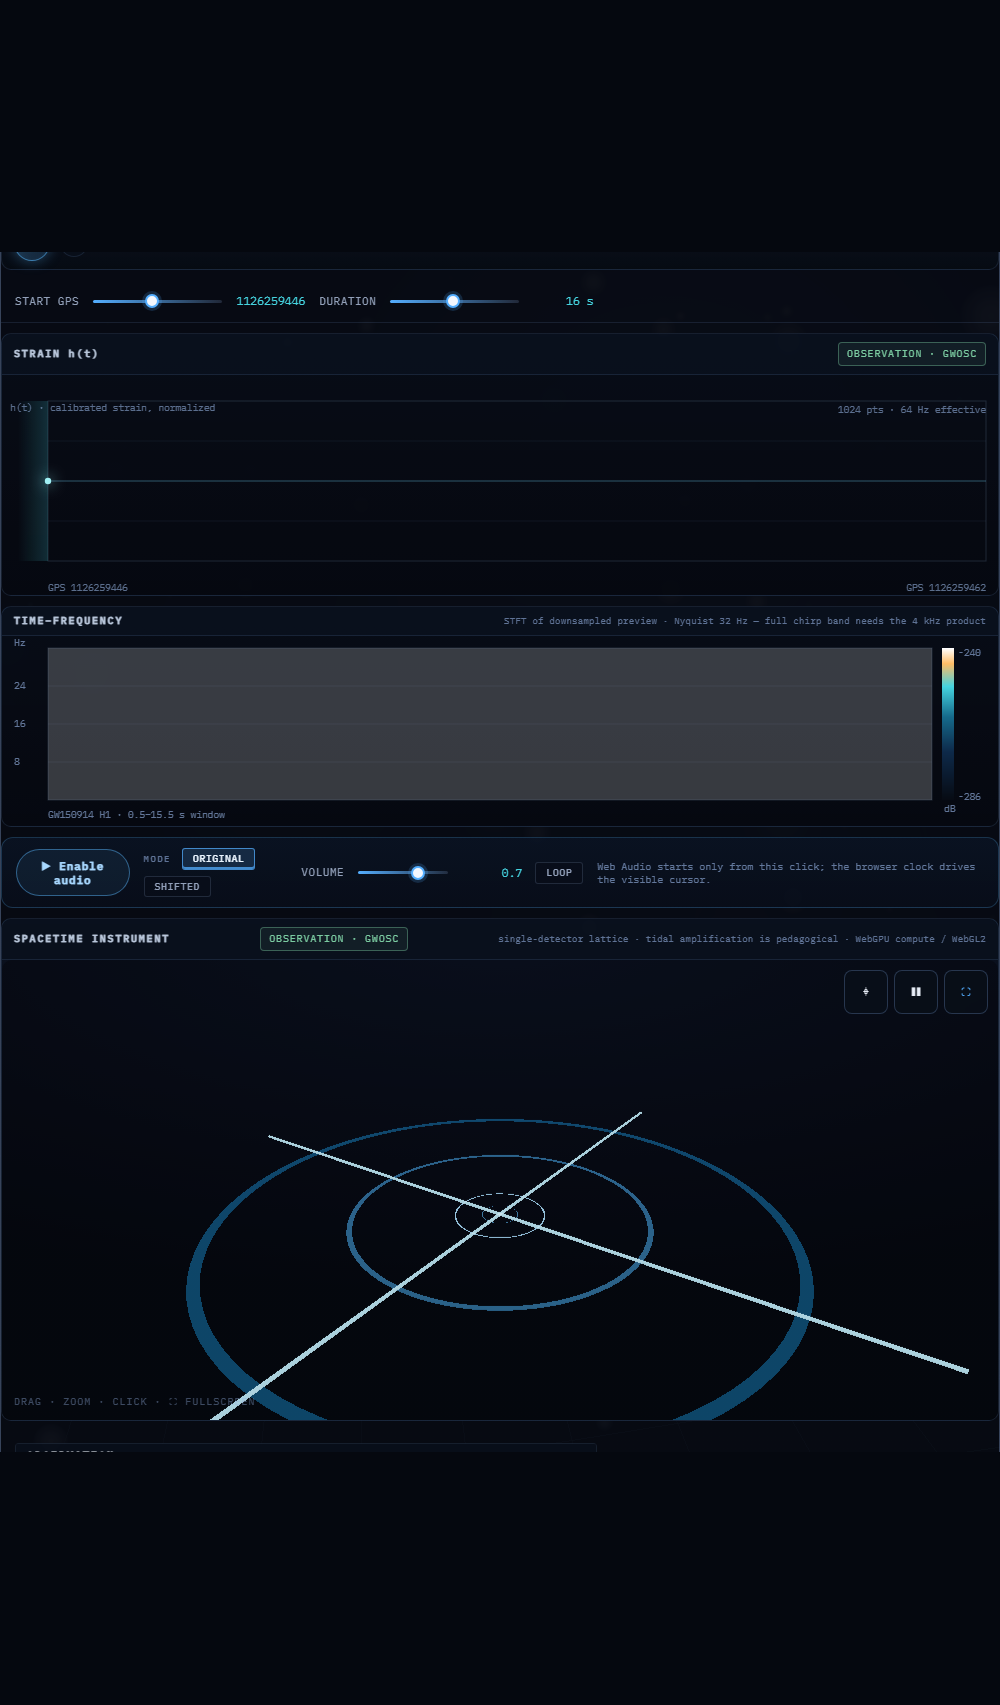
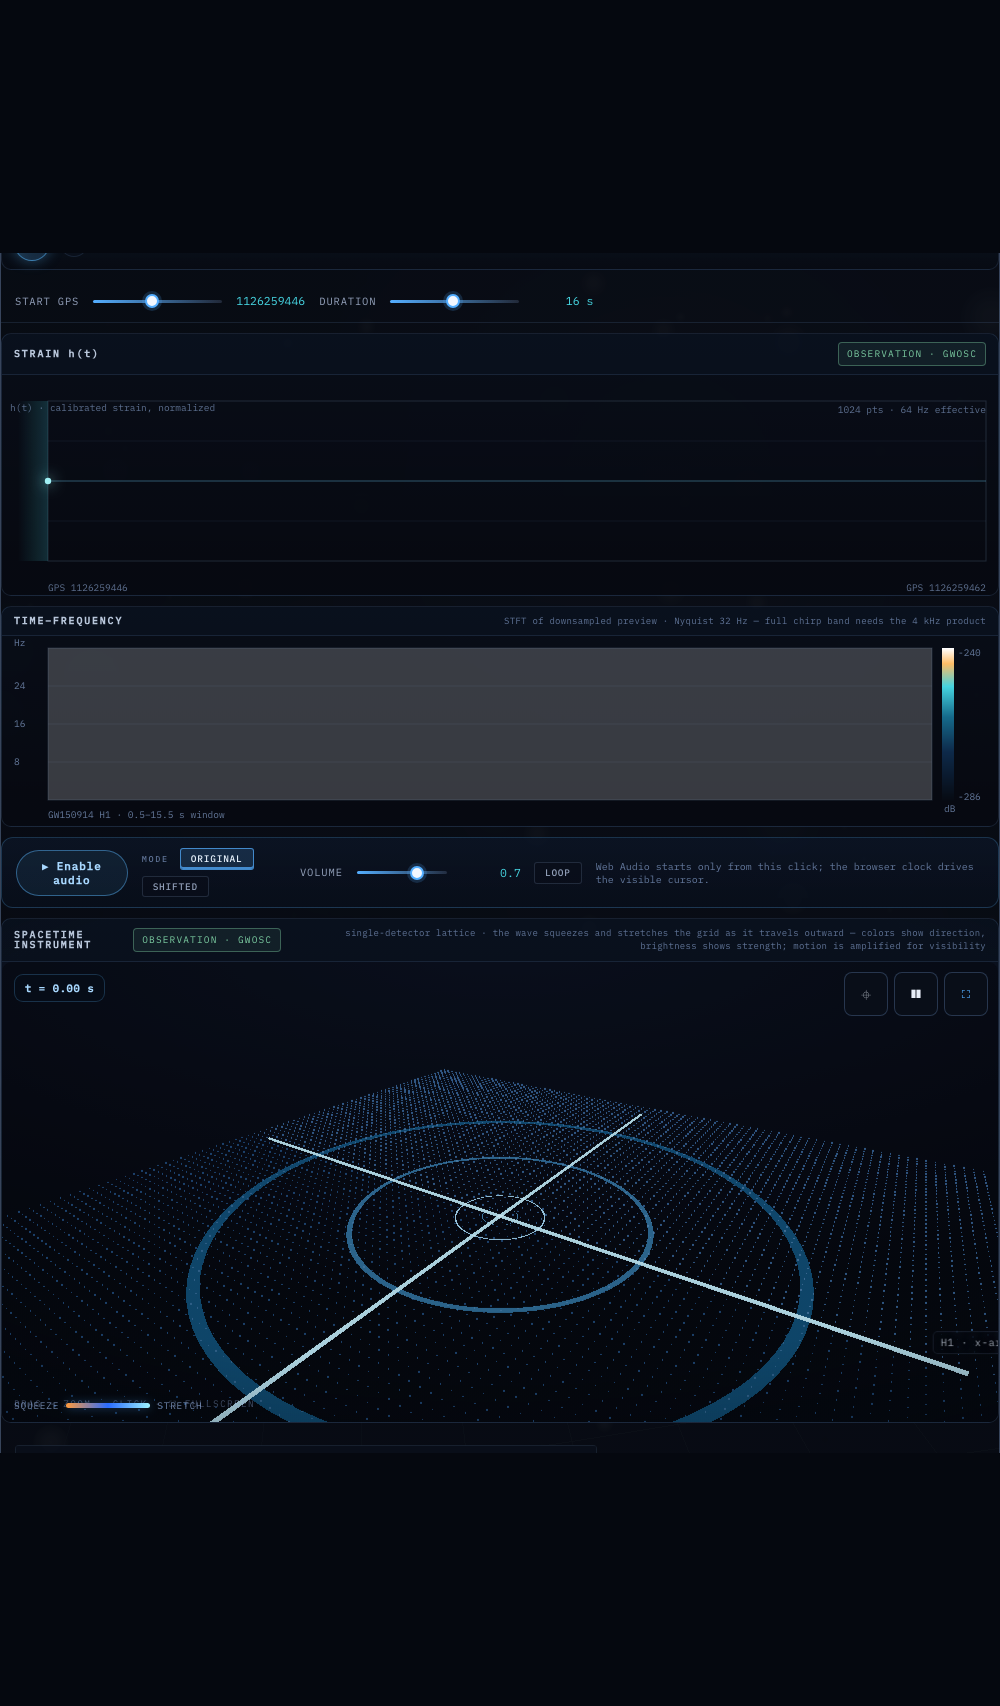
feat(gw): premium spacetime instrument — signed-strain color, merger shell, HUD, arm labels
Makes the instrument self-explanatory and cinematic, in both backends:

- Signed radial strain tint: squeeze renders amber, stretch renders cyan,
  neutral stays blue (normalized by the local envelope), so the quadrupolar
  pattern reads at a glance instead of a uniform glow.
- Merger shell: nodes whose delayed time crosses coalescence flash white and
  the flash travels outward with the visualization's wave speed (generated
  mode only; real GWOSC windows have no known merger time).
- Rest-position ghost lattice: a static dim reference grid so the deformation
  reads as motion relative to 'no wave'.
- HUD: live t-readout with inspiral/merger/ringdown phase pill (pulsing at
  merger), squeeze-stretch color legend, cinematic vignette.
- Detector-arm labels (H1/L1 x-arm, y-arm) anchor the lattice to the
  interferometer; caption rewritten in plain language.
- Cinematic merger punch: camera eases in around coalescence (generated
  mode, motion enabled; pointer-down cancels).
- TSL runtime mirrors all of the above (sign/shell buffers + ghost sprite)
  to keep the by-construction backend parity.

QA: gw-instrument spec now asserts the HUD clock, legend, and four arm
labels; GW visual baselines and docs screenshots refreshed via
qa/capture.mjs --update --docs (exp-gw-inspiral shifts 1px from the taller
caption above it; content unchanged).

diff --git a/js/visualizations/gw/gw-runtime.tsl.js b/js/visualizations/gw/gw-runtime.tsl.js
@@ -14,8 +14,8 @@
  */
 
 import {
-  Fn, Return, cos, float, instanceIndex, instancedArray, max, min, mix,
-  positionGeometry, smoothstep, uniform, vec3,
+  Fn, Return, clamp, cos, exp, float, instanceIndex, instancedArray, max, min, mix,
+  positionGeometry, smoothstep, sqrt, step, uniform, vec3,
 } from "three/tsl";
 import {
   AdditiveBlending, BoxGeometry, DoubleSide, Group, Mesh, MeshBasicNodeMaterial,
@@ -31,18 +31,21 @@ import {
 const WORKGROUP = 64;
 const TEXELS = 2048; // signal texels per detector row (GW_SIGNAL_TEXEL_MAX)
 
-export function createGwTslRuntime({ seed = 42, detail3d = "balanced", reducedMotion = false } = {}) {
+export function createGwTslRuntime({ seed = 42, detail3d = "balanced", reducedMotion = false, mergerSeconds = null } = {}) {
   const { side } = latticeSide(particleBudget({ detail3d, reducedMotion }));
   const count = side * side;
   const extent = 9;
   const lattice = buildLattice({ side, extent, seed });
 
   // Storage buffers: rest layout (static vec4 = x, z, r, phase), live
-  // positions (vec3), per-particle energy (float), and the signal staging
-  // (vec4 per texel: time, h+, hx, envelope) for up to two detector rows.
+  // positions (vec3), per-particle energy (float), signed radial strain
+  // (float, + stretch / - squeeze), merger-shell weight (float), and the
+  // signal staging (vec4 per texel: time, h+, hx, envelope) per detector row.
   const restBuffer = instancedArray(count, "vec4");
   const posBuffer = instancedArray(count, "vec3");
   const energyBuffer = instancedArray(count, "float");
+  const signBuffer = instancedArray(count, "float");
+  const shellBuffer = instancedArray(count, "float");
   const signalBuffer = instancedArray(TEXELS * 2, "vec4");
 
   const restArr = restBuffer.value.array;
@@ -55,6 +58,7 @@ export function createGwTslRuntime({ seed = 42, detail3d = "balanced", reducedMo
     lag: uniform(0.45),
     gain: uniform(0.5),
     motion: uniform(1),
+    merger: uniform(mergerSeconds != null && mergerSeconds >= 0 ? mergerSeconds : -1),
     rowBase: uniform(0), // element offset of this lattice's texel row
   };
 
@@ -71,7 +75,16 @@ export function createGwTslRuntime({ seed = 42, detail3d = "balanced", reducedMo
     const dz = hx.mul(x).add(hp.mul(z)).mul(float(-0.5).mul(g));
     const y = env.mul(g).mul(float(0.9)).mul(cos(phase.add(U.time.mul(2)))).mul(float(1).sub(r.mul(0.6)));
     posBuffer.element(instanceIndex).assign(vec3(x.add(dx), y, z.add(dz)));
-    energyBuffer.element(instanceIndex).assign(min(float(1), env.mul(float(1.45))));
+    // Signed radial strain (mirrors the GLSL vertex shader): + stretch, - squeeze.
+    const rlen = max(float(1e-4), sqrt(x.mul(x).add(z.mul(z))));
+    const radial = dx.mul(x).add(dz.mul(z)).div(rlen);
+    const sN = clamp(radial.div(float(0.5).mul(g).mul(rlen).mul(max(float(0.12), env)).add(1e-5)), -1, 1);
+    signBuffer.element(instanceIndex).assign(sN);
+    // Merger shell: delayed time crossing coalescence flashes outward.
+    const dtm = tLagged.sub(U.merger).mul(float(5.0));
+    const wf = exp(dtm.mul(dtm).negate()).mul(step(float(0.05), env)).mul(step(float(0), U.merger));
+    shellBuffer.element(instanceIndex).assign(wf);
+    energyBuffer.element(instanceIndex).assign(min(float(1), env.mul(float(1.45)).add(wf.mul(float(0.55)))));
     Return();
   })().compute(count, [WORKGROUP]);
 
@@ -80,15 +93,25 @@ export function createGwTslRuntime({ seed = 42, detail3d = "balanced", reducedMo
   // SpriteNodeMaterial has no sizeNode (r186): per-particle size is a
   // world-space scale multiplier. A stray sizeNode is silently ignored and
   // every sprite renders at scale 1, blowing the additive field out to white.
-  material.scaleNode = energyBuffer.toAttribute().mul(0.16).add(0.04);
-  material.colorNode = mix(vec3(0.165, 0.42, 1.0), vec3(0.616, 0.953, 1.0), energyBuffer.toAttribute());
+  const energy = energyBuffer.toAttribute();
+  const shell = shellBuffer.toAttribute();
+  material.scaleNode = energy.mul(0.16).add(0.04);
+  // Signed strain tint (parity with the GLSL vertex shader): squeeze amber,
+  // neutral blue, stretch cyan; the merger shell pushes toward white.
+  const sgn = signBuffer.toAttribute();
+  const tint = mix(
+    mix(vec3(0.165, 0.42, 1.0), vec3(1.0, 0.60, 0.235), max(float(0), sgn.negate())),
+    vec3(0.616, 0.953, 1.0),
+    max(float(0), sgn),
+  );
+  material.colorNode = mix(tint, vec3(1.0), shell.mul(0.65));
   // Mirror the WebGL2 backend's fragment math: a round soft-edged dot
   // (smoothstep over the squared quad radius, same 0.015→0.25 ramp as the
   // GLSL FRAG). Without this the sprites are hard-edged squares and the
   // additive field saturates to a white sheet.
   const r2 = positionGeometry.xy.dot(positionGeometry.xy);
   const falloff = float(1).sub(smoothstep(float(0.015), float(0.25), r2));
-  material.opacityNode = energyBuffer.toAttribute().mul(0.7).add(0.18).mul(falloff);
+  material.opacityNode = energy.mul(0.7).add(0.18).mul(falloff);
   material.blending = AdditiveBlending;
   material.depthWrite = false;
   material.transparent = true;
@@ -98,9 +121,33 @@ export function createGwTslRuntime({ seed = 42, detail3d = "balanced", reducedMo
   sprite.frustumCulled = false;
   sprite.name = `${GW_INSTRUMENT_VIEW_ID}-field`;
 
+  // Rest-position ghost lattice (parity with the WebGL2 backend): a static,
+  // dim reference grid so the deformation reads as motion, not absolute shape.
+  const ghostRest = instancedArray(count, "vec3");
+  const gr = ghostRest.value.array;
+  for (let i = 0; i < count; i++) {
+    gr[i * 3] = lattice.positions[i * 4];
+    gr[i * 3 + 1] = 0;
+    gr[i * 3 + 2] = lattice.positions[i * 4 + 1];
+  }
+  ghostRest.value.needsUpdate = true;
+  const ghostMat = new SpriteNodeMaterial();
+  ghostMat.positionNode = ghostRest.toAttribute();
+  ghostMat.scaleNode = float(0.022);
+  ghostMat.colorNode = vec3(0.24, 0.37, 0.58);
+  const ghostR2 = positionGeometry.xy.dot(positionGeometry.xy);
+  ghostMat.opacityNode = float(0.3).mul(float(1).sub(smoothstep(float(0.015), float(0.25), ghostR2)));
+  ghostMat.blending = AdditiveBlending;
+  ghostMat.depthWrite = false;
+  ghostMat.transparent = true;
+  const ghostSprite = new Sprite(ghostMat);
+  ghostSprite.count = count;
+  ghostSprite.frustumCulled = false;
+  ghostSprite.name = `${GW_INSTRUMENT_VIEW_ID}-ghost`;
+
   const group = new Group();
   group.name = GW_INSTRUMENT_VIEW_ID;
-  group.add(sprite);
+  group.add(ghostSprite, sprite);
 
   // Detector furniture mirrors the WebGL2 backend's look.
   const armMat = new MeshBasicNodeMaterial({ color: 0x6fd7ff, transparent: true, opacity: 0.85, blending: AdditiveBlending, depthWrite: false });
@@ -174,6 +221,7 @@ export function createGwTslRuntime({ seed = 42, detail3d = "balanced", reducedMo
     if (disposed) return;
     disposed = true;
     material.dispose();
+    ghostMat.dispose();
     armXGeo.dispose();
     armZGeo.dispose();
     armMat.dispose();

diff --git a/js/mod-experiments.jsx b/js/mod-experiments.jsx
@@ -1433,6 +1433,18 @@ function GWAnalysisTheatre() {
     return { samples, sampleRate, bandCenterHz: gwBandCenter(samples, sampleRate) };
   }, [GW, mode, realData, genH1]);
 
+  /* Instrument HUD phase + cinematic merger punch (generated mode only:
+     real GWOSC windows have no known coalescence time). The goal object is
+     memoized on the boolean so Scene3D re-triggers only on punch in/out. */
+  const gwPhase = playT < GW_GEN_MERGER - 0.15 ? "inspiral"
+    : playT <= GW_GEN_MERGER + 0.25 ? "merger" : "ringdown";
+  const mergerPunch = mode === "generated"
+    && playT >= GW_GEN_MERGER - 0.15 && playT <= GW_GEN_MERGER + 0.8;
+  const instrumentCameraGoal = useMemo(
+    () => (mergerPunch ? { radius: 9.4, theta: 0.6, phi: 1.05 } : null),
+    [mergerPunch],
+  );
+
   useEffect(() => {
     if (!GW) return undefined;
     const son = GW.createGwSonifier({
@@ -1517,9 +1529,17 @@ function GWAnalysisTheatre() {
       seed: atlasState.seed ?? 42,
       detail3d: ctx.settings.current.detail3d ?? "balanced",
       reducedMotion: ctx.motion() === 0,
+      mergerSeconds: mode === "generated" ? GW_GEN_MERGER : null,
     });
     ctx.scene.add(runtime.mesh);
     runtime.mesh.position.y = -0.6;
+    // Detector-arm labels anchor the abstract lattice to the interferometer.
+    const armEnd = 9 * 0.92;
+    const labelRows = instrumentRef.current.layout?.rows || [{ detector: "H1", offsetX: 0 }];
+    for (const row of labelRows) {
+      ctx.label(row.detector + " · x-arm", () => new THREE.Vector3(row.offsetX + armEnd, -0.35, 0), "gw-arm-label");
+      ctx.label(row.detector + " · y-arm", () => new THREE.Vector3(row.offsetX, -0.35, armEnd), "gw-arm-label");
+    }
     let appliedSig = -1;
     return {
       autoRotate: false,
@@ -1696,11 +1716,24 @@ function GWAnalysisTheatre() {
             : <span className="badge badge-established">OBSERVATION · GWOSC</span>}
           <span className="gw-panel-note">
             {instrumentBundles.length >= 2 ? "H1 + L1 lattices · 7 ms apart" : "single-detector lattice"}
-            {" · tidal amplification is pedagogical · WebGPU compute / WebGL2"}
+            {" · the wave squeezes and stretches the grid as it travels outward — colors show direction, brightness shows strength; motion is amplified for visibility"}
           </span>
         </figcaption>
         <Scene3D height={460} aria="Three-dimensional spacetime lattice deforming as the gravitational wave passes, driven by the same clock as the audio cursor"
-          build={buildInstrument} deps={[]}
+          build={buildInstrument} deps={[]} cameraGoal={instrumentCameraGoal}
+          overlay={<div className="gw-instr-hud">
+            <div className="gw-instr-clock">
+              <span className="gw-instr-t">t = {playT.toFixed(2)} s</span>
+              {mode === "generated"
+                ? <span className={"gw-instr-phase" + (gwPhase === "merger" ? " merger" : "")}>{gwPhase}</span>
+                : null}
+            </div>
+            <div className="gw-instr-legend" aria-hidden="true">
+              <span>squeeze</span>
+              <i className="gw-instr-ramp"></i>
+              <span>stretch</span>
+            </div>
+          </div>}
           fallback={<div className="gw-instrument-fallback">The 3-D spacetime instrument needs WebGL — the strain and time–frequency panels above carry the same signal.</div>}></Scene3D>
       </figure>
 

diff --git a/index.html b/index.html
@@ -774,7 +774,49 @@ input[type="range"]::-moz-range-thumb { width: 12px; height: 12px; border-radius
 }
 .gw-audio-note { font: 10px "IBM Plex Mono", monospace; color: rgba(148,176,224,0.65); margin-left: auto; }
 .gw-audio-error { font: 10px "IBM Plex Mono", monospace; color: #ffb0b0; }
+.gw-instrument-figure { position: relative; }
 .gw-instrument-figure canvas { border-radius: 10px; }
+/* Cinematic vignette: focuses the eye on the detector, sits under the
+   Scene3D controls (z-index 5) and the HUD (z-index 6). */
+.gw-instrument-figure::after {
+  content: ""; position: absolute; inset: 0; z-index: 1; pointer-events: none;
+  border-radius: 10px;
+  background: radial-gradient(120% 95% at 50% 40%, transparent 52%, rgba(2,6,14,0.5) 100%);
+}
+.gw-instr-hud { position: absolute; inset: 0; z-index: 6; pointer-events: none; }
+.gw-instr-clock {
+  position: absolute; top: 12px; left: 12px; display: flex; align-items: center; gap: 8px;
+  padding: 6px 10px; border-radius: 9px;
+  border: 1px solid rgba(90,185,255,0.22); background: rgba(6,12,24,0.72);
+  backdrop-filter: blur(6px);
+  font: 600 10.5px "IBM Plex Mono", monospace; letter-spacing: 0.06em; color: #a8d8ff;
+}
+.gw-instr-phase {
+  padding: 2px 8px; border-radius: 999px; text-transform: uppercase; font-size: 9px;
+  letter-spacing: 0.12em; color: rgba(148,176,224,0.85);
+  border: 1px solid rgba(90,185,255,0.28); background: rgba(90,185,255,0.08);
+}
+.gw-instr-phase.merger {
+  color: #ffd9a0; border-color: rgba(255,176,90,0.65); background: rgba(255,150,60,0.14);
+  animation: gw-merger-pulse 0.7s ease-in-out infinite alternate;
+}
+@keyframes gw-merger-pulse {
+  from { box-shadow: 0 0 0 rgba(255,170,80,0); }
+  to { box-shadow: 0 0 14px rgba(255,170,80,0.55); }
+}
+@media (prefers-reduced-motion: reduce) { .gw-instr-phase.merger { animation: none; } }
+.gw-instr-legend {
+  position: absolute; left: 12px; bottom: 10px; display: flex; align-items: center; gap: 7px;
+  font: 9.5px "IBM Plex Mono", monospace; letter-spacing: 0.08em;
+  color: rgba(148,176,224,0.72); text-transform: uppercase;
+}
+.gw-instr-ramp {
+  display: inline-block; width: 84px; height: 5px; border-radius: 999px;
+  background: linear-gradient(90deg, #ff9a3c, #2a6cff 50%, #9df3ff);
+  box-shadow: 0 0 10px rgba(74,168,255,0.35);
+}
+.gw-arm-label { font-size: 9.5px; letter-spacing: 0.1em; opacity: 0.75; }
+@media (max-width: 720px) { .gw-instr-legend { display: none; } }
 .gw-instrument-fallback {
   padding: 26px 18px; text-align: center; font: 11px "IBM Plex Mono", monospace;
   color: rgba(148,176,224,0.7); border: 1px dashed rgba(90,185,255,0.3); border-radius: 10px;
